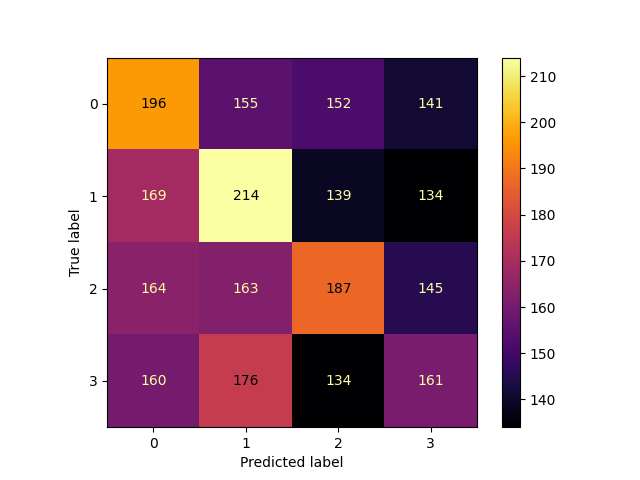
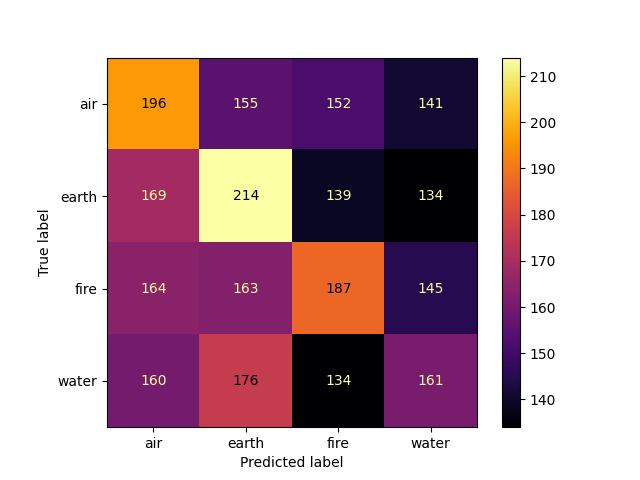
fix labels for element classification

diff --git a/Assignment_5/zodiacElementClassificationModel.py b/Assignment_5/zodiacElementClassificationModel.py
@@ -59,7 +59,7 @@ def train_naive_bayes_model(dataset, data_format):
 
     cm = confusion_matrix(y_test, y_pred)
 
-    vis = ConfusionMatrixDisplay(confusion_matrix=cm)
+    vis = ConfusionMatrixDisplay(confusion_matrix=cm, display_labels=classifier.classes_)
     vis.plot(cmap='inferno')
     plt.savefig('figures/confusion_matrix_element.png')
     plt.close()
